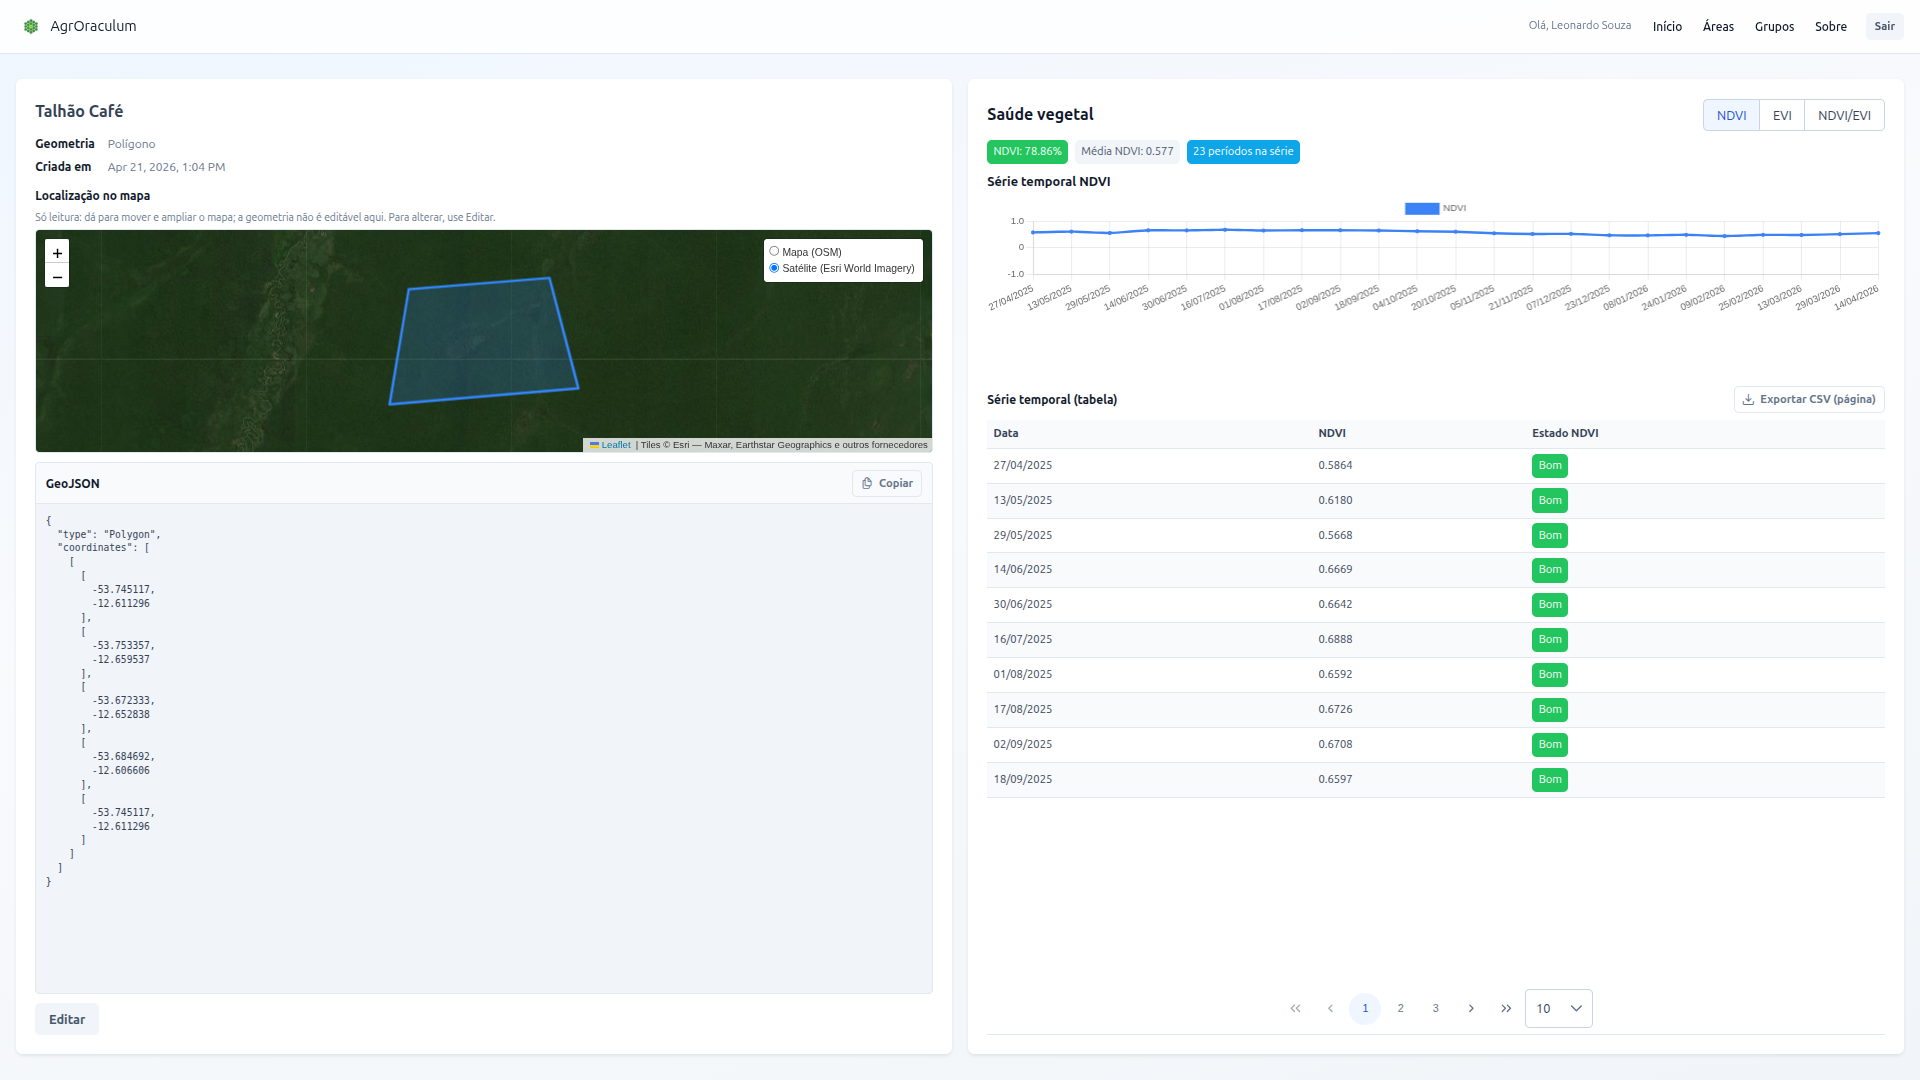
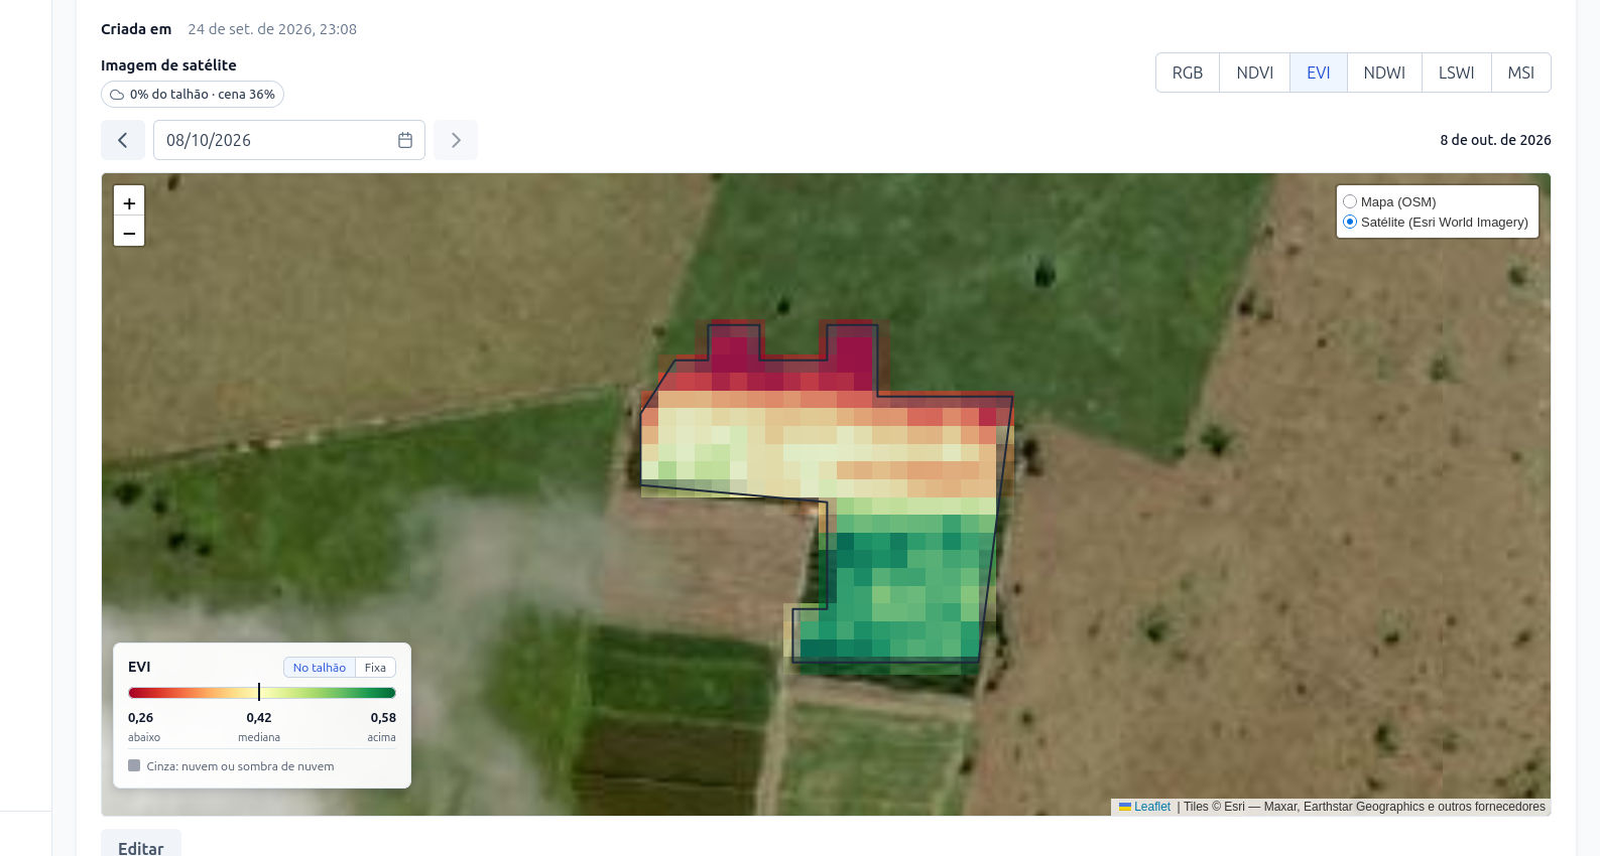
Update AgrOraculum project card with satellite health map screenshot.

diff --git a/src/components/CardsCarousel/CardsCarousel.tsx b/src/components/CardsCarousel/CardsCarousel.tsx
@@ -87,8 +87,8 @@ const data = [
   {
     image: agroraculum,
     title: "AgrOraculum",
-    category: "Vue 3 - Python - AWS - PostgreSQL",
-    imagePosition: "center top",
+    category: "Vue 3 - FastAPI - NDVI/EVI - Mapas",
+    imagePosition: "center",
     link: "https://agroraculum.leonardosouza.dev/",
   },
   {
